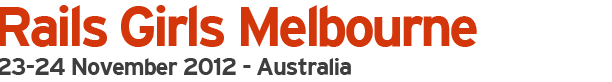
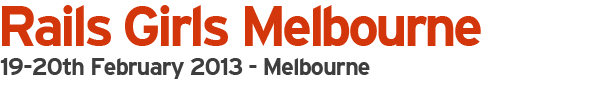
Added details and application for Feb event.

diff --git a/melbourne.html b/melbourne.html
@@ -5,11 +5,11 @@
 
 <!--  Add your city name, dates and year.  -->
  
-  <title>Melbourne 23-24 November 2012</title>
+  <title>Melbourne 19-20 February 2012</title>
   
 <!--  Write a metatext. This is what will show on the Facebook page and for instance search engines. -->
 
-  <meta name="description" content="Rails Girls is coming to Melbourne 23-24 November: join the two-day crash-course in building web applications with Ruby on Rails.">
+  <meta name="description" content="Rails Girls is back in Melbourne 19-20 February: join the two-day crash-course in building web applications with Ruby on Rails.">
   <meta name="author" content="Rails Girls">
  
   <link rel="shortcut icon" href="/favicon.png">
@@ -72,10 +72,10 @@ Steps to show on site
     <div id="container" class="container_12 page clearfix">
       <div class="grid_12 omega alpha">
         <div id="promo" class="melbourne">
-        <h1>Rails Girls Melbourne 23-24 November 2012</h1>
-        <p> Australia gets in the Rails Girls movement when Rails Girls comes to Melbourne.  During the free two-day workshop we'll dive into the magical world of Ruby on Rails. </p>
-<!--        <p>Register below but be quick though, places are filling up fast. </p> -->
-       <p>Due to demand we've had to close registrations for November but don't fret we're back in February (19th-20th).  Thanks to everyone who has applied, we'll be in touch shortly.</p>
+        <h1>Rails Girls Melbourne 19-20 February 2012</h1>
+        <p> <a href="http://www.rubyconf.org.au/">Rubyconf Australia</a> hosts the Rails Girls movement this February.  During the free two-day workshop we'll dive into the magical world of Ruby on Rails. </p>
+        <p>Register below but please be aware that spaces are limited. </p>
+<!--        <p>Due to demand we've had to close registrations for November but don't fret we're back in February (19th-20th).  Thanks to everyone who has applied, we'll be in touch shortly.</p> -->
 
 
 <!--  Update the sharing texts.-->
@@ -85,7 +85,7 @@ Steps to show on site
             <div>
 
             <div style="margin:0 15px 0 0;">
-              <a href="http://twitter.com/share" class="twitter-share-button" data-url="" data-text="Rails Girls Melbourne 23rd/24th November  - apply now!" data-count="horizontal" data-via="railsgirls" data-related="railsgirls">
+              <a href="http://twitter.com/share" class="twitter-share-button" data-url="" data-text="Rails Girls Melbourne 19-20 February - apply now!" data-count="horizontal" data-via="railsgirls" data-related="railsgirls">
             Tweet</a>
               <script type="text/javascript" src="http://platform.twitter.com/widgets.js"></script>
             </div>
@@ -117,11 +117,11 @@ Steps to show on site
 <!--  Update the texts! -->
      
       <div class="grid_6 alpha">
-        <h2>Friday 23 November</h2>
+        <h2>Tuesday 19 February</h2>
         <table id="schedule">
           <tbody>
             <tr>
-              <th>18.00 -</th>
+              <th>18.00 - 19.30</th>
               <td>
                 <h4>Installation party</h4>
                   Get know the attendees a little bit before hand. Bring your laptop if you can, so we can install Ruby on Rails for you.<br>                  
@@ -132,7 +132,7 @@ Steps to show on site
         
         <hr />          
         
-        <h2>Saturday 24 November</h2>
+        <h2>Wednesday 20 February</h2>
         
         <table id="schedule">
           <tbody>
@@ -155,7 +155,7 @@ Steps to show on site
           <tr>
             <th>10:20 - 10:45</th>
             <td>
-               <h4>Designing your web app -workshop</h4>
+               <h4>How web apps work</h4>
             </td>
           </tr>
           
@@ -192,7 +192,7 @@ Steps to show on site
           <tr>
             <th>13:45 - 14:30</th>
             <td>
-              <h4>Lightning talks from coaches</h4>
+              <h4>Designing your web app</h4>
             </td>
           </tr>
 
@@ -224,9 +224,15 @@ Steps to show on site
         <h3>Information</h3>
             <p>
               <p>
-              <strong>Location:</strong>
+              <strong>Location:</strong><br>
+	      We're split over two locations.<br>
+	      <i>Tuesday 19 February</i><br>
               Level 4/459 Little Collins Street 
-       <iframe width="425" height="350" frameborder="0" scrolling="no" marginheight="0" marginwidth="0" src="https://maps.google.com.au/maps?f=q&amp;source=s_q&amp;hl=en&amp;geocode=&amp;q=Level+4%2F459+Little+Collins+Street,+Melbourne,+3000&amp;aq=&amp;sll=-37.860283,145.079616&amp;sspn=1.522249,2.90863&amp;ie=UTF8&amp;hq=&amp;hnear=4%2F459+Little+Collins+St,+Victoria+3000&amp;ll=-37.816415,144.95951&amp;spn=0.0119,0.022724&amp;t=m&amp;z=14&amp;iwloc=r0&amp;output=embed"></iframe><br /><small><a href="https://maps.google.com.au/maps?f=q&amp;source=embed&amp;hl=en&amp;geocode=&amp;q=Level+4%2F459+Little+Collins+Street,+Melbourne,+3000&amp;aq=&amp;sll=-37.860283,145.079616&amp;sspn=1.522249,2.90863&amp;ie=UTF8&amp;hq=&amp;hnear=4%2F459+Little+Collins+St,+Victoria+3000&amp;ll=-37.816415,144.95951&amp;spn=0.0119,0.022724&amp;t=m&amp;z=14&amp;iwloc=r0" style="color:#0000FF;text-align:left">View Larger Map</a></small>
+       <iframe width="425" height="350" frameborder="0" scrolling="no" marginheight="0" marginwidth="0" src="https://maps.google.com.au/maps?f=q&amp;source=s_q&amp;hl=en&amp;geocode=&amp;q=Level+4%2F459+Little+Collins+Street,+Melbourne,+3000&amp;aq=&amp;sll=-37.860283,145.079616&amp;sspn=1.522249,2.90863&amp;ie=UTF8&amp;hq=&amp;hnear=4%2F459+Little+Collins+St,+Victoria+3000&amp;ll=-37.816415,144.95951&amp;spn=0.0119,0.022724&amp;t=m&amp;z=14&amp;iwloc=r0&amp;output=embed"></iframe><br /><small><a href="https://maps.google.com.au/maps?f=q&amp;source=embed&amp;hl=en&amp;geocode=&amp;q=Level+4%2F459+Little+Collins+Street,+Melbourne,+3000&amp;aq=&amp;sll=-37.860283,145.079616&amp;sspn=1.522249,2.90863&amp;ie=UTF8&amp;hq=&amp;hnear=4%2F459+Little+Collins+St,+Victoria+3000&amp;ll=-37.816415,144.95951&amp;spn=0.0119,0.022724&amp;t=m&amp;z=14&amp;iwloc=r0" style="color:#0000FF;text-align:left">View Larger Map</a></small><br>
+       	      <i>Wednesday 20 February</i><br>
+              Jasper Hotel<br>
+	      489 Elizabeth Street
+<iframe width="425" height="350" frameborder="0" scrolling="no" marginheight="0" marginwidth="0" src="http://maps.google.com.au/maps?f=q&amp;source=s_q&amp;hl=en&amp;geocode=&amp;q=Jasper+hotel,+Elizabeth+Street,+Victoria&amp;aq=1&amp;oq=jasper+&amp;sll=-37.860283,145.079616&amp;sspn=1.847506,3.56781&amp;ie=UTF8&amp;hq=Jasper+hotel,&amp;hnear=Elizabeth+St,+Victoria&amp;t=m&amp;z=14&amp;iwloc=A&amp;cid=13389414167183019933&amp;ll=-37.807459,144.959859&amp;output=embed"></iframe><br /><small><a href="http://maps.google.com.au/maps?f=q&amp;source=embed&amp;hl=en&amp;geocode=&amp;q=Jasper+hotel,+Elizabeth+Street,+Victoria&amp;aq=1&amp;oq=jasper+&amp;sll=-37.860283,145.079616&amp;sspn=1.847506,3.56781&amp;ie=UTF8&amp;hq=Jasper+hotel,&amp;hnear=Elizabeth+St,+Victoria&amp;t=m&amp;z=14&amp;iwloc=A&amp;cid=13389414167183019933&amp;ll=-37.807459,144.959859" style="color:#0000FF;text-align:left">View Larger Map</a></small>
             </p>
             
             
@@ -297,9 +303,9 @@ Kate Deutscher, organizer
   
       </div>
 
-<!-- <p>
+ <p>
   <iframe src="https://docs.google.com/spreadsheet/embeddedform?formkey=dDRRY1RSUXNvUlpsTV9Jblg4TWZWSlE6MQ" width="760" height="1080" frameborder="0" marginheight="0" marginwidth="0">Loading...</iframe>
-</p> -->
+</p> 
       
 
     </div>
